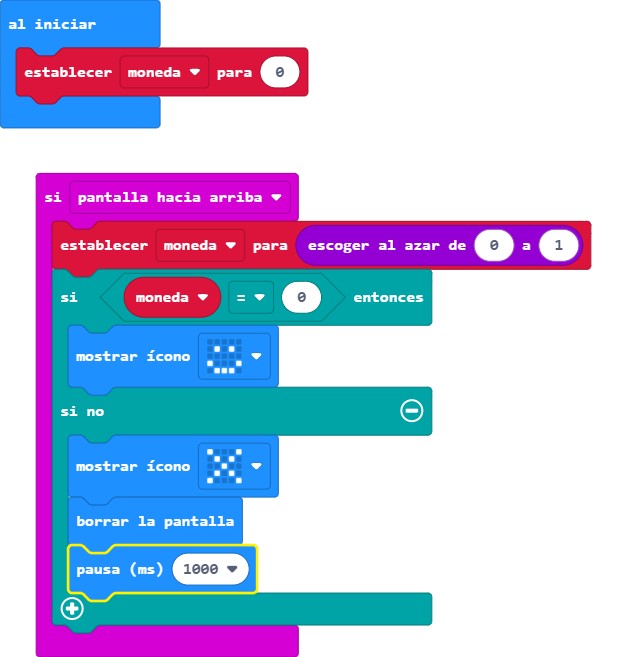
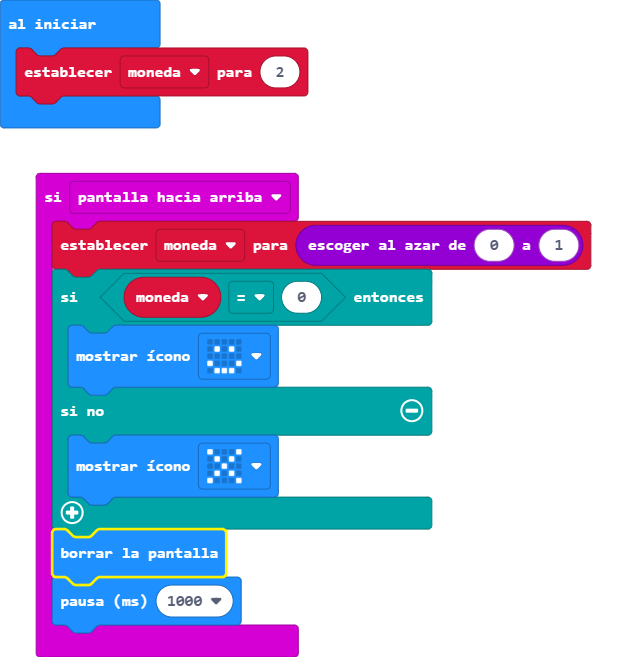
Actualizar main.blocks, main.ts

Changed region(s): [[0.0622, 0.7306, 0.6843, 0.9741]]

diff --git a/main.ts b/main.ts
@@ -4,9 +4,9 @@ input.onGesture(Gesture.ScreenUp, function () {
         basic.showIcon(IconNames.Happy)
     } else {
         basic.showIcon(IconNames.No)
-        basic.clearScreen()
-        basic.pause(1000)
     }
+    basic.clearScreen()
+    basic.pause(1000)
 })
 let moneda = 0
-moneda = 0
+moneda = 2
